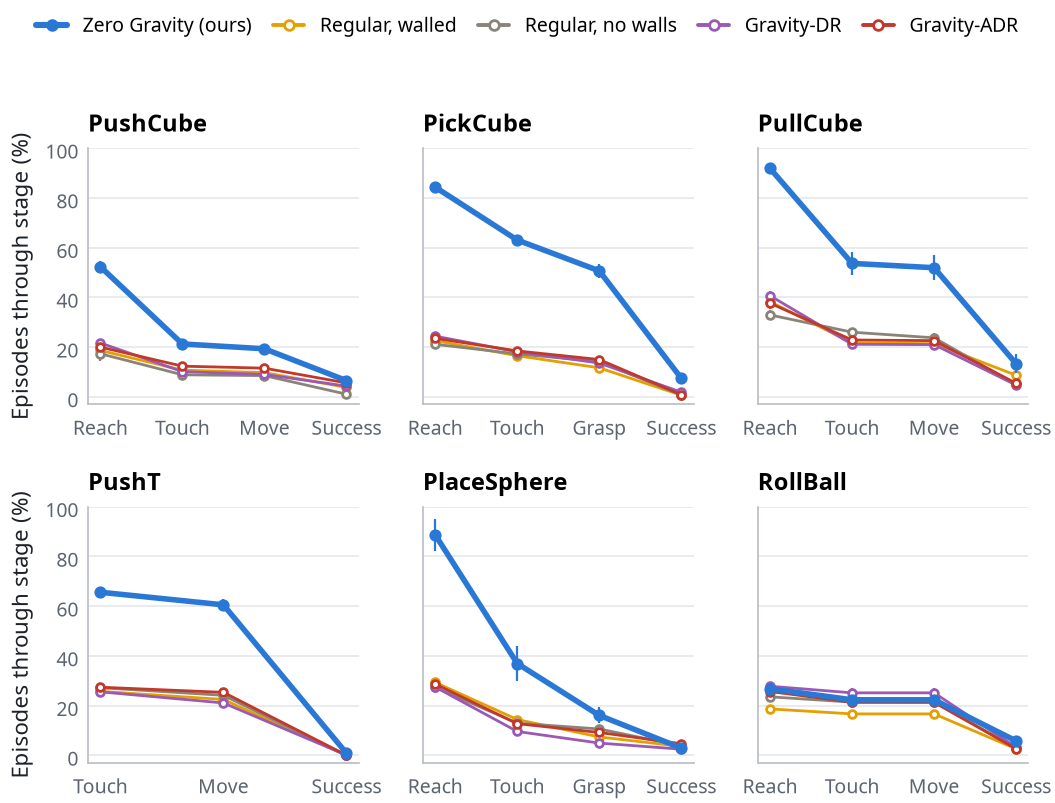
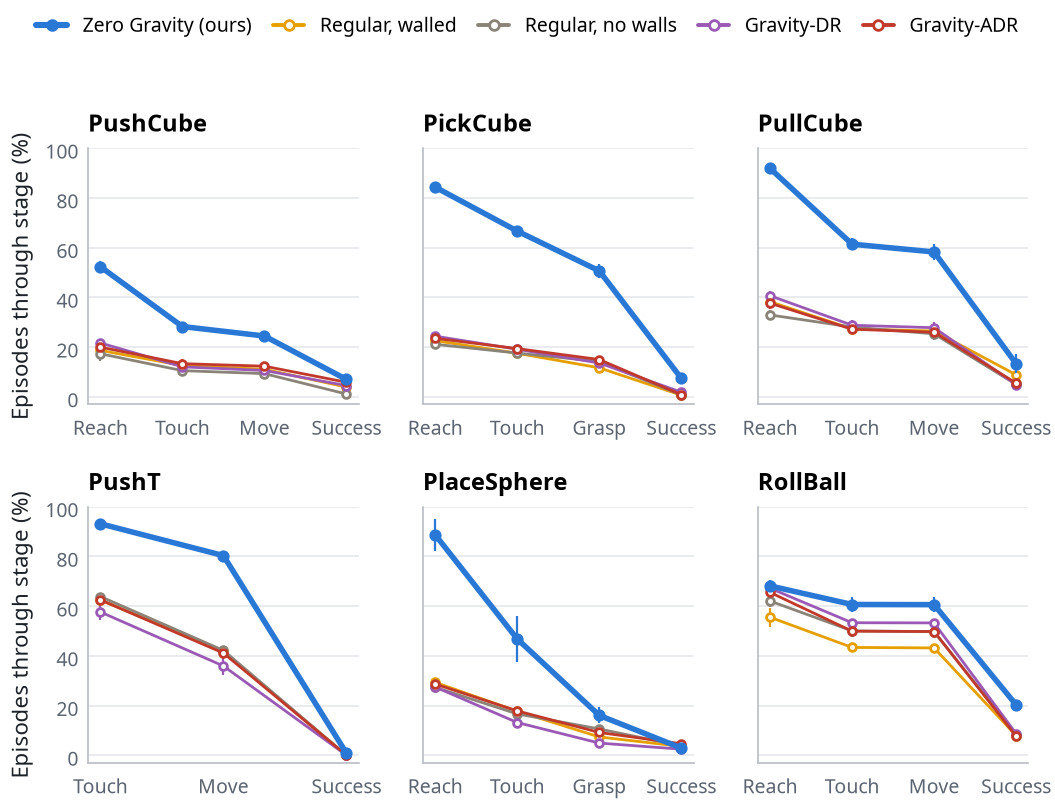
Corrected stage detectors: updated figures and reach numbers; drop ray-traced wording
Touch now counts any robot link and RollBall reach is measured from the ball's surface; all six tasks re-evaluated.

Claude-Session: https://claude.ai/code/session_01UjkjnsmNTetpR5MXkkNTSc

diff --git a/index.html b/index.html
@@ -53,7 +53,7 @@
              poster="static/images/teaser_zg_tasks_poster.jpg?v=20261021" data-src="static/videos/teaser_zg_tasks.mp4?v=20261021"></video>
       <figcaption class="center">
         <b>Zero Gravity experts on six tasks.</b> Objects start floating in mid-air; gravity switches on when the
-        robot touches or grasps them. Green rings mark goals. Ray-traced, 2&times; speed.
+        robot touches or grasps them. Green rings mark goals. 2&times; speed.
       </figcaption>
     </figure>
     </div>
@@ -69,7 +69,7 @@
     </div>
 
     <figure class="fig headline-result">
-      <img src="static/images/fig_stages_by_task.png?v=20261022" alt="Six line charts, one per task, showing for each training arm the share of episodes that reached, touched, grasped or moved the object, and succeeded, when the object rests on a support at a random height. The Zero Gravity line sits above the four gravity-trained baselines on five of six tasks." loading="lazy">
+      <img src="static/images/fig_stages_by_task.png?v=20261022b" alt="Six line charts, one per task, showing for each training arm the share of episodes that reached, touched, grasped or moved the object, and succeeded, when the object rests on a support at a random height. The Zero Gravity line sits above the four gravity-trained baselines on five of six tasks." loading="lazy">
       <figcaption>
         <b>Headline result &mdash; Zero Gravity explores the third dimension better.</b>
         We compare our method against baselines on spatially harder versions of the same tasks: the object starts on a
@@ -84,7 +84,7 @@
     <details class="by-range">
       <summary>Breakdown by object height: where the advantage comes from</summary>
       <figure class="fig" style="margin:0">
-        <img src="static/images/fig_fig1_stages.png?v=20261022" alt="Three line charts: reach, touch, and grasp or move rates against object height. Zero Gravity declines gradually; the gravity-trained baselines collapse above about 0.20 m." loading="lazy">
+        <img src="static/images/fig_fig1_stages.png?v=20261022b" alt="Three line charts: reach, touch, and grasp or move rates against object height. Zero Gravity declines gradually; the gravity-trained baselines collapse above about 0.20 m." loading="lazy">
         <figcaption>Averaged over the six tasks, in equal 10&nbsp;cm height bins (error bars: SEM over tasks). Near the table
           (below 0.10&nbsp;m) all arms are similar. From about 0.20&nbsp;m up, every gravity-trained baseline collapses,
           including fixed and adaptive gravity randomization; Zero Gravity degrades gradually, also above its
@@ -98,7 +98,7 @@
       <figcaption>
         <b>Same layout, two policies.</b> Each column is one spatially difficult layout. The top row is the Zero Gravity
         expert and the bottom row the Regular Gravity expert, on the same seed. Badges mark the furthest stage reached.
-        We picked layouts that show the difference; the curves above give the averages. Ray-traced.
+        We picked layouts that show the difference; the curves above give the averages.
       </figcaption>
     </figure>
 
@@ -182,12 +182,12 @@
     <p>
       We train reinforcement-learning (PPO) experts this way on 8 ManiSkill3 tasks and compare them with regular gravity
       and with fixed and adaptive (OpenAI-style) gravity randomization. On spatially harder versions of six tasks, where the
-      object rests on a support at a random height, zero-gravity experts on a stock Franka Panda reach the object in 68%
-      of episodes, against 25&ndash;28% for the regular-gravity and gravity-randomized baselines, and touch and grasp or
-      move it about twice as often. The gap comes from raised objects. At heights inside the zero-gravity training range,
-      which the gravity-trained experts never saw, zero-gravity experts reach the object in 68% of episodes against
-      17&ndash;20% (3.4&times; the best baseline). Above every arm's training range, the baselines almost never reach the
-      object (at most 0.3% of episodes), while zero-gravity experts still reach it in 41%. We are now
+      object rests on a support at a random height, zero-gravity experts on a stock Franka Panda reach the object in 80%
+      of episodes, against 37&ndash;40% for the regular-gravity and gravity-randomized baselines, and touch and grasp or
+      move it about twice as often too. The gap comes from raised objects. At heights inside the zero-gravity training range,
+      which the gravity-trained experts never saw, zero-gravity experts reach the object in 79% of episodes against
+      30&ndash;33% (2.4&times; the best baseline). Above every arm's training range, the baselines rarely reach the
+      object (at most 3% of episodes), while zero-gravity experts still reach it in 54%. We are now
       distilling these demonstrations into VLAs, and sim-to-real tests on a Franka Panda with a Robotiq gripper are
       ongoing.
     </p>
@@ -337,7 +337,7 @@
     <div class="arm-grid" id="arm-grid"></div>
     <figcaption style="margin-top:12px">
       <b>What these clips are.</b> Zero-action rollouts (no policy), stock Franka Panda, seed 0, so every arm starts
-      from the same spawn. Rendered with ManiSkill's default rasterizer, not ray-traced. The colored box edges show the containment walls for visualization only; cameras do not see them during training.
+      from the same spawn. Rendered with ManiSkill's default rasterizer. The colored box edges show the containment walls for visualization only; cameras do not see them during training.
       The Gravity-ADR (OpenAI) arms are not shown: their gravity range starts at zero width, so they begin identical
       to Regular Gravity, walled.
     </figcaption>
@@ -371,7 +371,7 @@
     <p class="rq">Q2 &middot; Expert-level spatial transfer</p>
     <h3>Do zero-gravity experts transfer zero-shot to harder spatial layouts?</h3>
     <figure class="fig">
-      <img src="static/images/fig_success_by_task.png?v=20261022" alt="Bar charts of zero-shot task success for five training arms on six spatially harder task variants, in two panels with separate scales." loading="lazy">
+      <img src="static/images/fig_success_by_task.png?v=20261022b" alt="Bar charts of zero-shot task success for five training arms on six spatially harder task variants, in two panels with separate scales." loading="lazy">
       <figcaption>
         <b>Zero-shot task success on spatially harder variants</b> of each task (the object starts on a support at a height
         drawn uniformly over the arm's reach), stock Panda. Each expert was trained on its normal task and evaluated without
